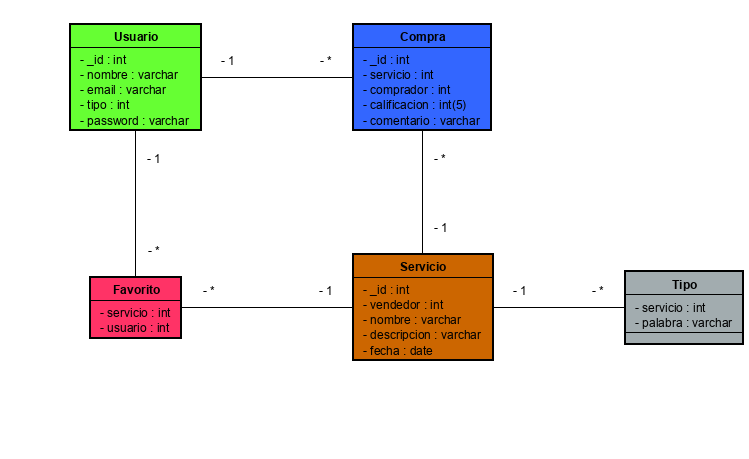
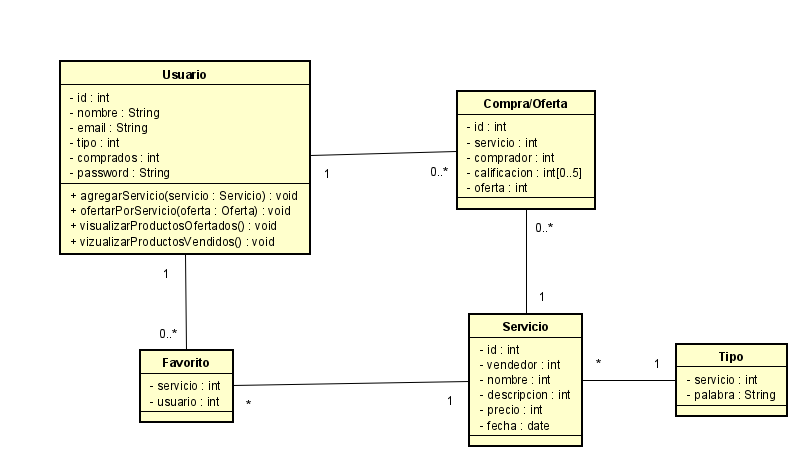
Agregando diagramas de clases y componentes

diff --git a/README.md b/README.md
@@ -10,9 +10,15 @@ Una herramienta útil de fácil acceso para facilitar los emprendimientos y supl
 
 
 ### Diagramas
-   - *Diagrama:*
+   - *Entidad Relación:*
+	![image](https://github.com/aosfandres/Proyecto-ARSW-2020/blob/master/resources/entidadRelacion.png)
+	
+   - *Diagrama Clases:*
 	![image](https://github.com/aosfandres/Proyecto-ARSW-2020/blob/master/resources/clases.png)
-		
+	
+    - *Componentes:*
+	![image](https://github.com/aosfandres/Proyecto-ARSW-2020/blob/master/resources/Componentes.png)
+			
    - *Casos de uso:*
    
       - *Comprador*
@@ -20,7 +26,7 @@ Una herramienta útil de fácil acceso para facilitar los emprendimientos y supl
       	![image](https://github.com/aosfandres/Proyecto-ARSW-2020/blob/master/resources/caso1.png)
 			
       - *Vendedor*
-	![image](https://github.com/aosfandres/Proyecto-ARSW-2020/blob/master/resources/caso2.png)
+		![image](https://github.com/aosfandres/Proyecto-ARSW-2020/blob/master/resources/caso2.png)
 
 ## Historias de usuario
 1. *COMO* "Usuario/Vendedor"  *QUIERO* registrarme *PARA poder* ofrecer públicamente mis servicios mediante una plataforma web.
